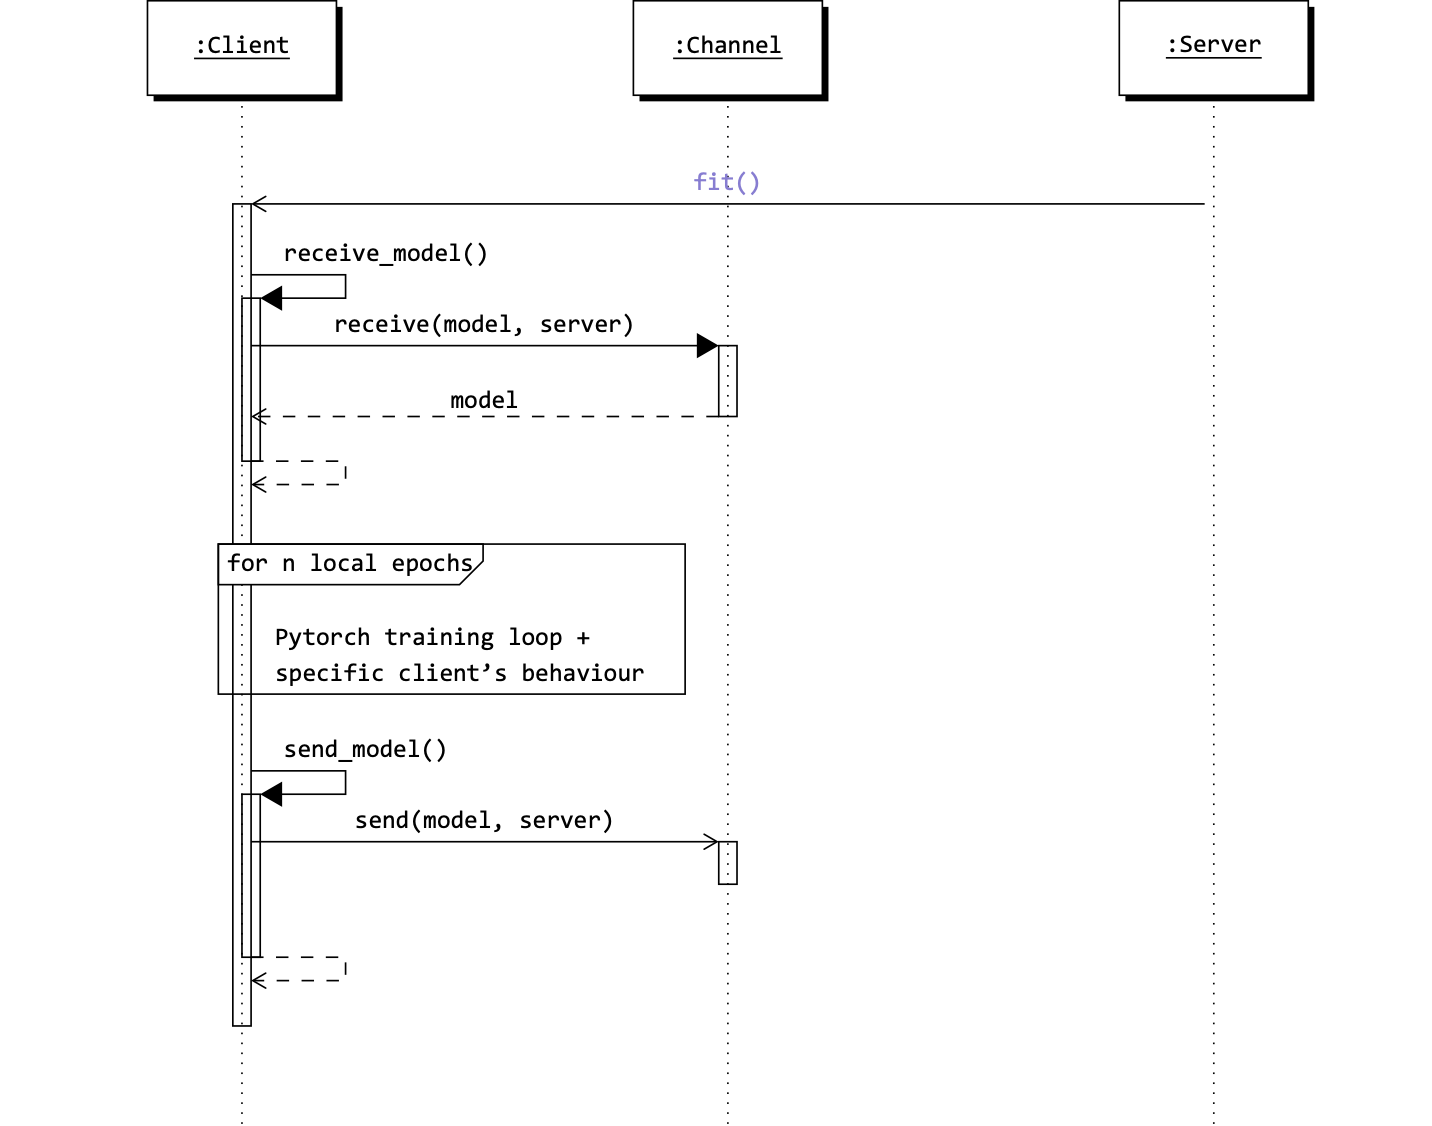
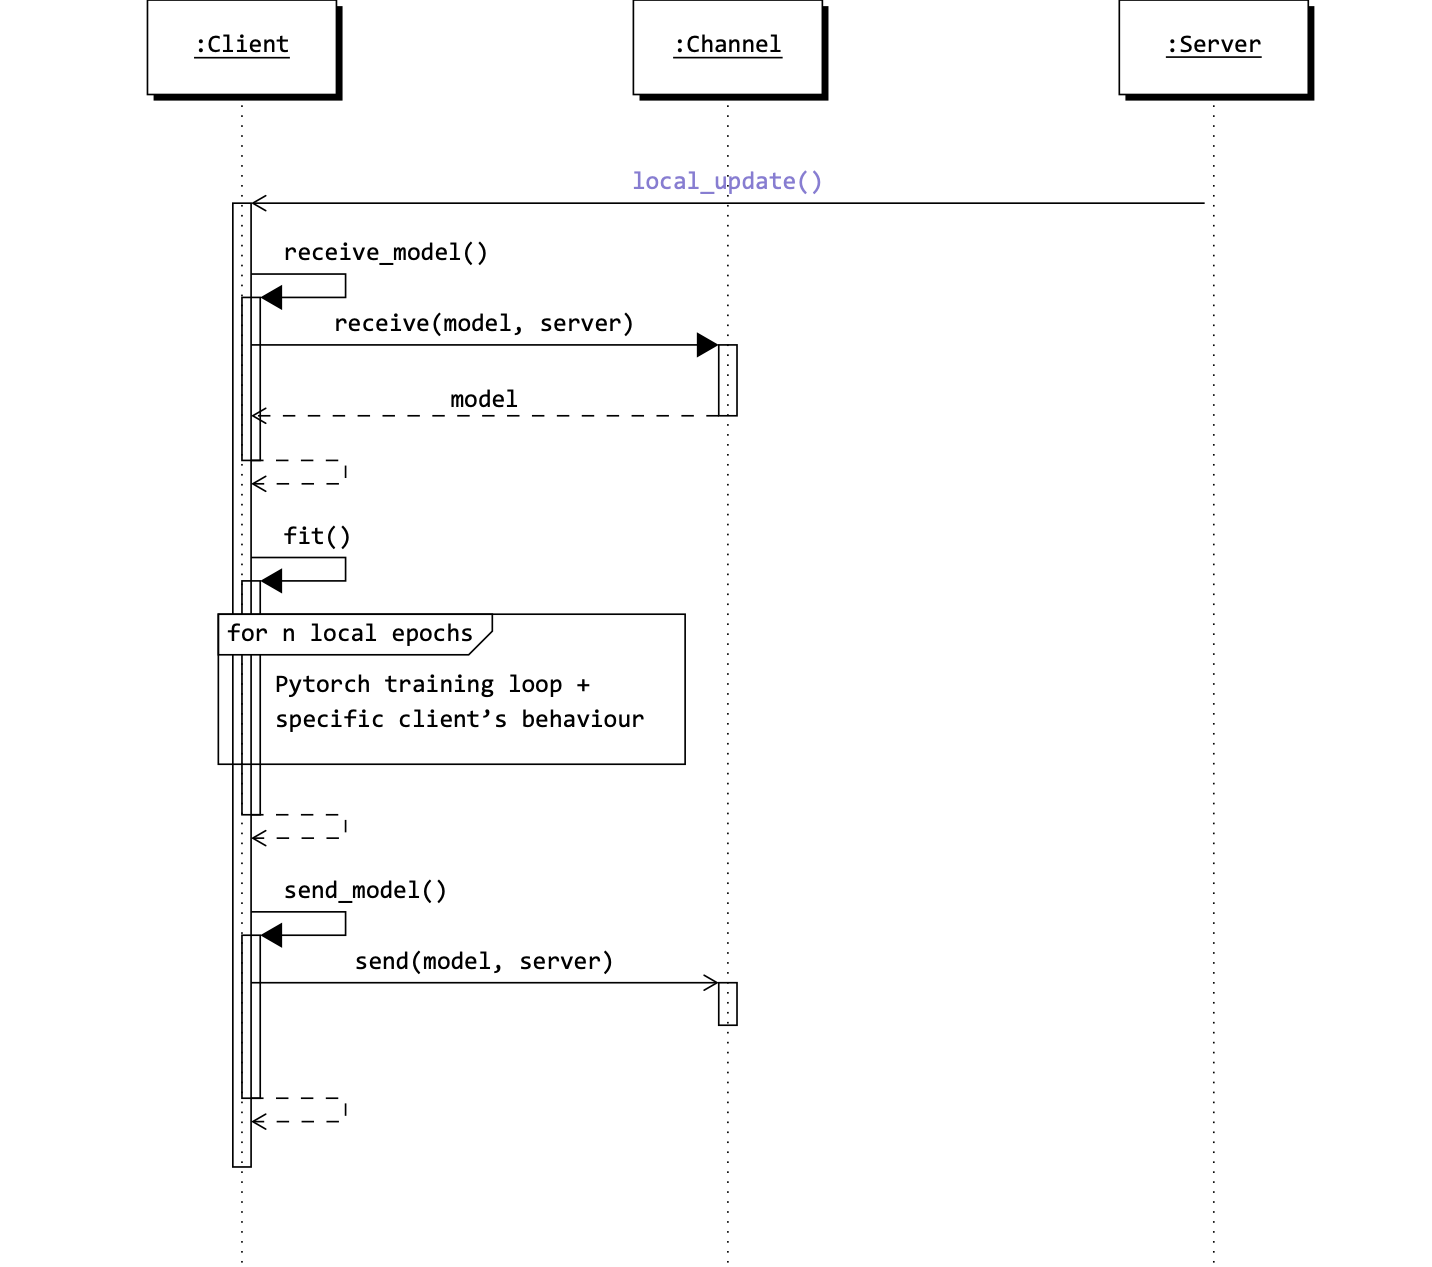
Fixed documentation
Former-commit-id: a19afb381222986a280a30694be422e7cc9ed454

diff --git a/fluke/utils/log.py b/fluke/utils/log.py
@@ -1,3 +1,4 @@
+"""This submodule provides logging utilities."""
 from rich.pretty import Pretty
 from rich.panel import Panel
 import rich
@@ -13,12 +14,25 @@ import os
 from torch.nn import Module
 from typing import Literal, Union
 
+import sys
+sys.path.append(".")
+sys.path.append("..")
+
+from .. import DDict  # NOQA
 from ..comm import ChannelObserver, Message  # NOQA
 from . import ServerObserver, ClientObserver, get_class_from_str  # NOQA
-from .. import DDict
 
 
 wandb.require("core")
+
+
+__all__ = [
+    "Log",
+    "TensorBoardLog",
+    "WandBLog",
+    "ClearMLLog",
+    "get_logger"
+]
 
 
 class Log(ServerObserver, ChannelObserver, ClientObserver):

diff --git a/fluke/algorithms/fedala.py b/fluke/algorithms/fedala.py
@@ -1,7 +1,7 @@
 """Implementation of the FedALA [FedALA23]_ algorithm.
 
 References:
-    .. [FedAVG17] Jianqing Zhang, Yang Hua, Hao Wang, Tao Song, Zhengui Xue, Ruhui Ma, Haibing Guan.
+    .. [FedALA23] Jianqing Zhang, Yang Hua, Hao Wang, Tao Song, Zhengui Xue, Ruhui Ma, Haibing Guan.
        FedALA: Adaptive Local Aggregation for Personalized Federated Learning
        In AAAI (2023). URL: https://arxiv.org/pdf/2212.01197v4
 

diff --git a/fluke/utils/__init__.py b/fluke/utils/__init__.py
@@ -21,14 +21,13 @@ sys.path.append(".")
 sys.path.append("..")
 
 if TYPE_CHECKING:
-    from client import Client
+    from client import Client  # NOQA
 
 from .. import DDict  # NOQA
-from ..comm import ChannelObserver, Message  # NOQA
-# from ..data.datasets import DatasetsEnum  # NOQA
 
 
 __all__ = [
+    'log',
     'model',
     'Configuration',
     'OptimizerConfigurator',

diff --git a/fluke/__init__.py b/fluke/__init__.py
@@ -192,6 +192,7 @@ class GlobalSettings(metaclass=Singleton):
 
     - The device (``"cpu"``, ``"cuda[:N]"``, ``"auto"``, ``"mps"``);
     - The ``seed`` for reproducibility;
+    - The evaluation configuration;
     - The progress bars for the federated learning process, clients and the server;
     - The live renderer, which is used to render the progress bars.
 

diff --git a/fluke/algorithms/fedrod.py b/fluke/algorithms/fedrod.py
@@ -1,3 +1,10 @@
+"""Implementation of the FedROD [FedROD22]_ algorithm.
+
+References:
+    .. [FedROD22] Hong-You Chen and Wei-Lun Chao. On Bridging Generic and Personalized Federated
+       Learning for Image Classification. In ICLR (2022).
+       URL: https://openreview.net/pdf?id=I1hQbx10Kxn
+"""
 import sys
 import torch
 from copy import deepcopy

diff --git a/docs/conf.py b/docs/conf.py
@@ -14,7 +14,7 @@ sys.path.insert(0, os.path.abspath('../..'))
 project = 'fluke'
 copyright = '2024, Mirko Polato'
 author = 'Mirko Polato'
-version = '0.2.0'
+version = '0.3.0'
 # release = 'alpha'
 
 # autodoc_mock_imports = ['algorithms'] # Fix the "No module named 'algorithms'" error

diff --git a/docs/def_alg/def_client.md b/docs/def_alg/def_client.md
@@ -104,7 +104,7 @@ The client receives the global model from the server, trains the local model on 
 
 - `send_model`: this method sends the updated model back to the server.
 
-Usualy, most of the logic of a federated learning algorithm is implemented in this `fit` method!
+Usualy, most of the logic of a federated learning algorithm is implemented in the `fit` method, where the training loop happens!
 
 ### The training loop
 
@@ -193,7 +193,7 @@ Likewise the `Server` class, you should follow the following best practices:
       :linenos:
   
       def send_model(self) -> None:
-        self.channel.send(Message(self.model, "model", self), self.server)
+          self.channel.send(Message(self.model, "model", self), self.server)
   ```
 
 - **Minimal changes principle**: this principle universally applies to software development but it is particularly important when overriding the `fit` method. Start by copying the standard implementation of the `fit` method and then modify only the parts that are specific to your federated protocol. This will help you to keep the code clean and to avoid introducing nasty bugs.
@@ -204,7 +204,7 @@ The following is an example of the `FedProxClient` class (see [FedProx](../algo/
 
 .. code-block:: python
     :linenos:
-    :emphasize-lines: 23,35
+    :emphasize-lines: 22,34
 
     class FedProxClient(Client):
         def __init__(self,
@@ -227,7 +227,6 @@ The following is an example of the `FedProxClient` class (see [FedProx](../algo/
 
         def fit(self, override_local_epochs: int = 0) -> float
             epochs = override_local_epochs if override_local_epochs else self.hyper_params.local_epochs
-            self.receive_model()
             W = deepcopy(self.model)
             self.model.to(self.device)
             self.model.train()
@@ -247,5 +246,21 @@ The following is an example of the `FedProxClient` class (see [FedProx](../algo/
 
             self.model.to("cpu")
             clear_cache()
-            self.send_model()
+```
+
+## Observer pattern
+
+The `Client` class triggers callbacks to the observers that have been registered to the client.
+The default notifications are:
+
+- `_notify_start_fit`: triggered at the beginning of the `fit` method. It calls `ClientObserver.start_fit` on each observer;
+- `_notify_end_fit`: triggered at the end of the `fit` method. It calls `ClientObserver.end_fit` on each observer;
+- `_notify_evaluation`: it should be triggered after an evaluation has been performed. It calls `ClientObserver.evaluation` on each observer;
+
+```{eval-rst}
+
+.. hint::
+    
+    Refer to the API documentation of the :ref:`ClientObserver <fluke.utils.ClientObserver>` inerface and the :ref:`ObserverSubject <fluke.ObserverSubject>` intarface for more details.
+
 ```

diff --git a/docs/fluke.nets.md b/docs/fluke.nets.md
@@ -16,39 +16,39 @@
 .. autosummary:: 
    :nosignatures:
 
-   fluke.nets.EncoderHeadNet
-   fluke.nets.GlobalLocalNet
-   fluke.nets.HeadGlobalEncoderLocalNet
-   fluke.nets.EncoderGlobalHeadLocalNet
-   fluke.nets.MNIST_2NN
-   fluke.nets.MNIST_2NN_E
-   fluke.nets.MNIST_2NN_D
-   fluke.nets.MNIST_CNN
-   fluke.nets.MNIST_CNN_E
-   fluke.nets.MNIST_CNN_D
-   fluke.nets.FedBN_CNN
-   fluke.nets.FedBN_CNN_E
-   fluke.nets.FedBN_CNN_D
-   fluke.nets.MNIST_LR
-   fluke.nets.CifarConv2
-   fluke.nets.CifarConv2_E
-   fluke.nets.CifarConv2_D
-   fluke.nets.ResNet9
-   fluke.nets.ResNet9_E
-   fluke.nets.ResNet9_D
-   fluke.nets.FEMNIST_CNN
-   fluke.nets.FEMNIST_CNN_E
-   fluke.nets.FEMNIST_CNN_D
-   fluke.nets.VGG9_E
-   fluke.nets.VGG9_D
-   fluke.nets.VGG9
-   fluke.nets.ResNet18
-   fluke.nets.ResNet34
-   fluke.nets.ResNet50
-   fluke.nets.ResNet18GN
-   fluke.nets.MoonCNN_E
-   fluke.nets.MoonCNN_D
-   fluke.nets.MoonCNN
+   EncoderHeadNet
+   GlobalLocalNet
+   HeadGlobalEncoderLocalNet
+   EncoderGlobalHeadLocalNet
+   MNIST_2NN
+   MNIST_2NN_E
+   MNIST_2NN_D
+   MNIST_CNN
+   MNIST_CNN_E
+   MNIST_CNN_D
+   FedBN_CNN
+   FedBN_CNN_E
+   FedBN_CNN_D
+   MNIST_LR
+   CifarConv2
+   CifarConv2_E
+   CifarConv2_D
+   ResNet9
+   ResNet9_E
+   ResNet9_D
+   FEMNIST_CNN
+   FEMNIST_CNN_E
+   FEMNIST_CNN_D
+   VGG9_E
+   VGG9_D
+   VGG9
+   ResNet18
+   ResNet34
+   ResNet50
+   ResNet18GN
+   MoonCNN_E
+   MoonCNN_D
+   MoonCNN
 
 ```
 

diff --git a/docs/def_alg/def_server.md b/docs/def_alg/def_server.md
@@ -72,8 +72,8 @@ The default notifications are:
 
 - `_notify_start_round`: triggered at the beginning of each round. It calls `ServerObserver.start_round` on each observer;
 - `_notify_selected_clients`: triggered after the clients have been selected for the round. It calls `ServerObserver.selected_clients` on each observer;
-- `_notify_error`: this notification should be used to notify the observers of any error that occurred during the round. Currently, it is not used in the standard implementation. It calls `ServerObserver.error` on each observer;
 - `_notify_end_round`: triggered at the end a round. It calls `ServerObserver.end_round` on each observer;
+- `_notify_evaluation`: it should be triggered after an evaluation has been performed. It calls `ServerObserver.evaluation` on each observer;
 - `_notify_finalize`: triggered at the end of the `finalize` method. It calls `ServerObserver.finished` on each observer.
 
 ```{eval-rst}

diff --git a/docs/algo/FedROD.md b/docs/algo/FedROD.md
@@ -22,12 +22,42 @@ Classes included in ``fluke.algorithms.fedrod``
 .. autosummary::
    :nosignatures:
 
-   FedAVG
+   RODModel
+   BalancedSoftmaxLoss
+   FedRODClient
+   FedROD
    
 ```
 
 
 ## Classes
+
+```{eval-rst}
+
+.. autoclass:: fluke.algorithms.fedrod.RODModel
+   :show-inheritance:
+   :member-order: bysource
+   :members: 
+
+```
+
+```{eval-rst}
+
+.. autoclass:: fluke.algorithms.fedrod.BalancedSoftmaxLoss
+   :show-inheritance:
+   :member-order: bysource
+   :members: 
+
+```
+
+```{eval-rst}
+
+.. autoclass:: fluke.algorithms.fedrod.FedRODClient
+   :show-inheritance:
+   :member-order: bysource
+   :members: 
+
+```
 
 ```{eval-rst}
 

diff --git a/docs/algo/FedAwS.md b/docs/algo/FedAwS.md
@@ -22,12 +22,42 @@ Classes included in ``fluke.algorithms.fedaws``
 .. autosummary::
    :nosignatures:
 
-   FedAVG
+   SpreadModel
+   SpreadLoss
+   FedAwSServer
+   FedAwS
    
 ```
 
 
 ## Classes
+
+```{eval-rst}
+
+.. autoclass:: fluke.algorithms.fedaws.SpreadModel
+   :show-inheritance:
+   :member-order: bysource
+   :members: 
+
+```
+
+```{eval-rst}
+
+.. autoclass:: fluke.algorithms.fedaws.SpreadLoss
+   :show-inheritance:
+   :member-order: bysource
+   :members: 
+
+```
+
+```{eval-rst}
+
+.. autoclass:: fluke.algorithms.fedaws.FedAwSServer
+   :show-inheritance:
+   :member-order: bysource
+   :members: 
+
+```
 
 ```{eval-rst}
 

diff --git a/docs/fluke.client.md b/docs/fluke.client.md
@@ -42,7 +42,6 @@ Classes included in ``fluke.client``
 
 .. autosummary:: 
    :nosignatures:
-   :show-inheritance:
 
    index
    n_examples
@@ -62,6 +61,7 @@ Classes included in ``fluke.client``
 
 .. autoclass:: fluke.client.Client
    :member-order: bysource
+   :show-inheritance:
    :members: index, n_examples, channel, server, set_server, local_update, fit, receive_model, send_model, evaluate, finalize
 
 ```
